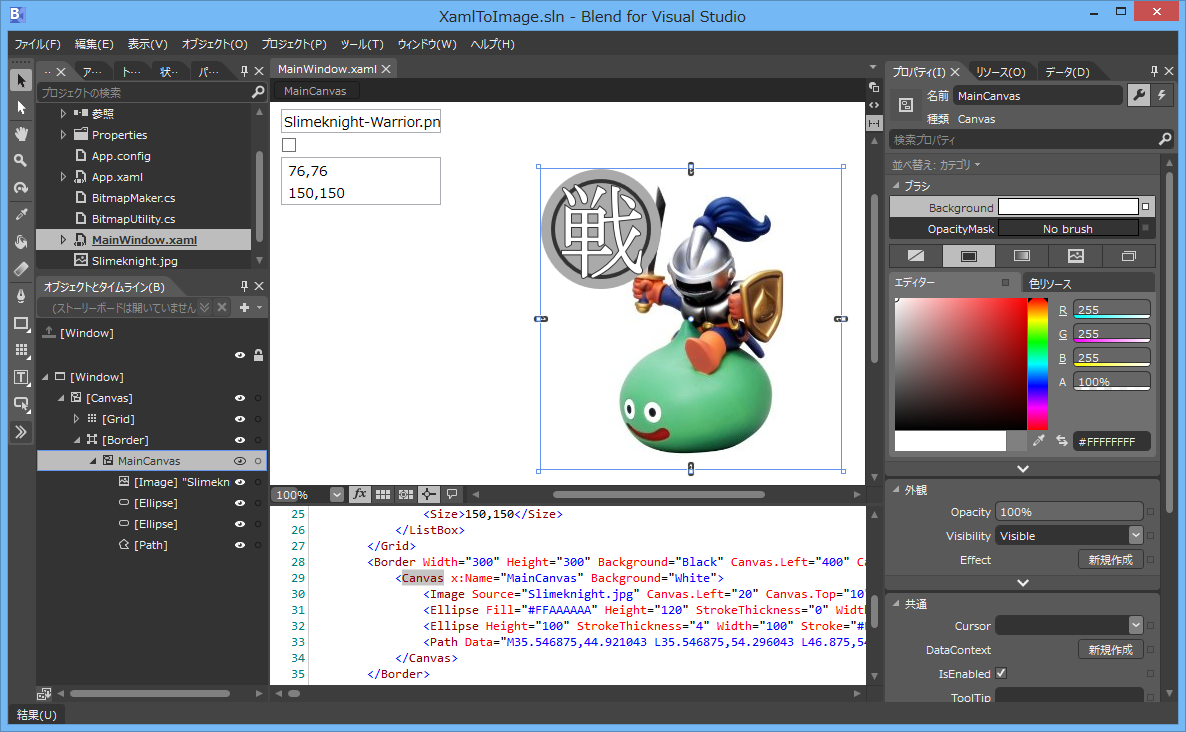
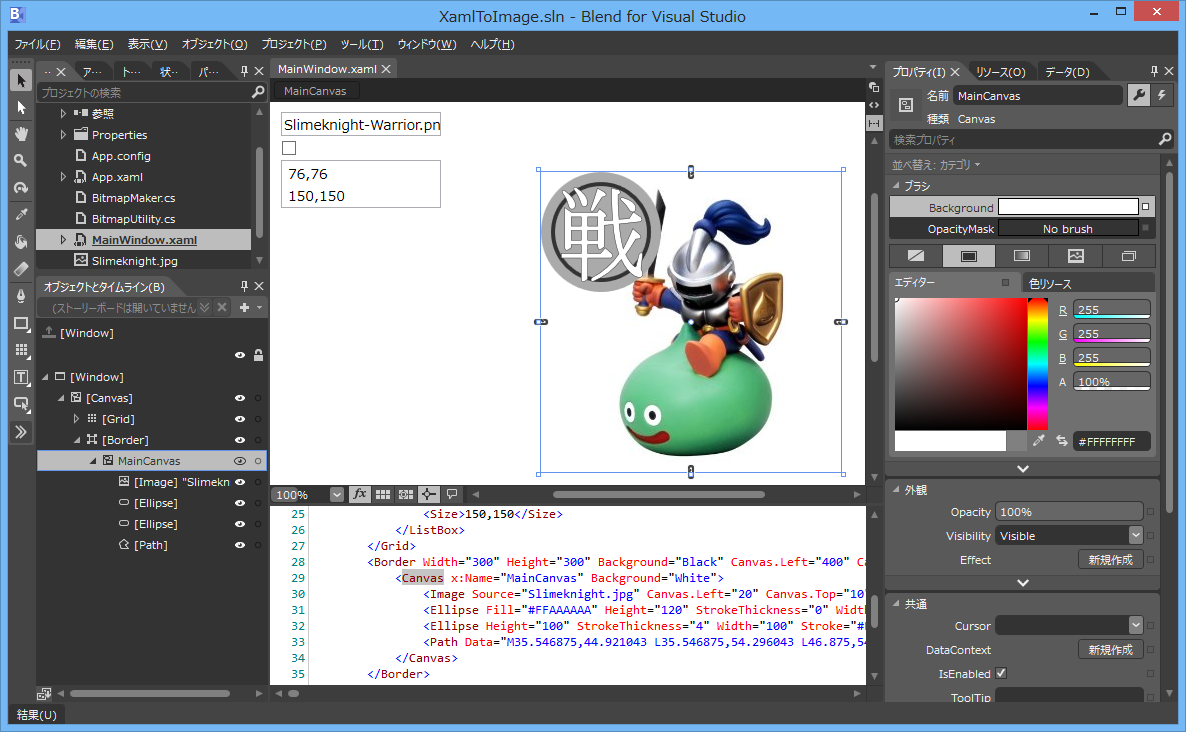
Set stroke thickness of text path to 0.5.

diff --git a/Images/Slimeknight-Warrior/MainWindow.xaml b/Images/Slimeknight-Warrior/MainWindow.xaml
@@ -30,7 +30,7 @@
 				<Image Source="Slimeknight.jpg" Canvas.Left="20" Canvas.Top="10"/>
 				<Ellipse Fill="#FFAAAAAA" Height="120" StrokeThickness="0" Width="120"/>
 				<Ellipse Height="100" StrokeThickness="4" Width="100" Stroke="#FF333333" Canvas.Left="10" Canvas.Top="10"/>
-				<Path Data="M35.546875,44.921043 L35.546875,54.296043 L46.875,54.296043 L46.875,44.921043 z M16.796875,44.921043 L16.796875,54.296043 L28.125,54.296043 L28.125,44.921043 z M35.546875,31.639793 L35.546875,40.624168 L46.875,40.624168 L46.875,31.639793 z M16.796875,31.639793 L16.796875,40.624168 L28.125,40.624168 L28.125,31.639793 z M74.786377,12.889793 C84.824623,15.400375 89.84375,18.785789 89.84375,23.046043 C89.84375,25.650211 88.671875,26.952293 86.328125,26.952293 C84.58252,26.952293 83.241776,26.17308 82.305908,24.614647 C79.994705,21.013573 77.022293,18.045235 73.388672,15.709618 C72.119141,13.829735 72.585037,12.889793 74.786377,12.889793 z M6.8878174,6.0920038 C7.3659258,5.7471542 8.3170567,5.8707504 9.7412109,6.4627919 C17.569986,11.589745 21.484375,16.075829 21.484375,19.921043 C21.484375,22.785629 20.052082,24.217918 17.1875,24.217918 C15.576172,24.217918 14.294434,22.789696 13.342285,19.93325 C12.33317,16.140938 10.176595,12.340477 6.8725586,8.5318823 C6.4046221,7.250145 6.4097085,6.4368515 6.8878174,6.0920038 z M62.536621,3.9054184 L70.837402,5.5411601 C73.352051,7.8035355 73.026527,9.2907562 69.86084,10.002831 C69.632973,15.300682 70.011391,23.294258 70.996094,33.983543 L82.440186,33.269432 L87.115479,26.952293 L95.703125,31.865623 C97.526031,33.896061 97.347,35.379215 95.166016,36.315086 L71.09375,38.56118 C72.119141,47.93618 73.675537,55.915512 75.762939,62.499168 C79.46167,56.61945 83.085121,50.109032 86.633301,42.967918 L93.707275,48.247459 C97.381592,51.4986 96.166992,53.124168 90.063477,53.124168 C86.112465,58.804508 82.263184,63.825668 78.515625,68.187645 C82.019043,74.242332 85.581459,78.234032 89.202881,80.162743 C89.6464,80.105774 89.996338,79.894188 90.252686,79.527977 L93.756104,67.839745 C95.688881,65.841858 96.98893,65.89679 97.65625,68.004539 L96.057129,79.979637 C95.560707,81.778137 95.916748,83.259262 97.125244,84.422997 C98.520912,86.766747 98.038734,88.69342 95.678711,90.203026 C93.501785,90.483788 91.117348,90.064682 88.525391,88.945702 C82.316078,85.434143 77.335609,80.134262 73.583984,73.046043 C65.055336,82.587875 54.404701,89.619125 41.63208,94.139793 C38.877357,94.139793 38.301594,93.026917 39.904785,90.80117 C53.080238,84.856346 63.346352,77.110985 70.703125,67.565086 C67.06543,58.658024 64.880371,49.156883 64.147949,39.061668 L54.296875,39.769676 L54.296875,60.680321 C49.348957,64.236633 46.875,64.191879 46.875,60.546043 L46.875,58.592918 L35.546875,58.592918 L35.546875,67.186668 L49.780273,67.186668 L55.328369,61.717918 L62.524414,67.040184 C64.331055,69.058411 64.129639,70.539536 61.920166,71.483543 L35.546875,71.483543 L35.546875,91.930321 C30.598957,95.486633 28.124998,95.441879 28.125,91.796043 L28.125,71.483543 L5.46875,71.483543 L5.46875,67.186668 L28.125,67.186668 L28.125,58.592918 L16.796875,58.592918 L16.796875,61.461571 C11.848958,65.017883 9.375,64.973129 9.375,61.327293 L9.375,22.655418 L17.242432,27.342918 L46.160889,27.342918 L48.919678,23.827293 L55.419922,28.307274 C57.275391,30.496407 56.901039,31.928696 54.296875,32.604149 L54.296875,35.155418 L63.671875,34.856346 C62.630203,22.087791 62.251785,11.770821 62.536621,3.9054184 z M46.533203,3.9054184 L54.150391,7.5675273 C57.893875,10.082176 57.112625,11.707748 51.806641,12.444237 L41.851807,25.847557 C39.471436,26.844467 38.419594,26.240219 38.696289,24.034813 C41.296387,17.809227 43.908691,11.099434 46.533203,3.9054184 z M22.387695,3.1913071 C30.900063,8.1351547 35.15625,12.800278 35.15625,17.186668 C35.15625,20.311668 33.984375,21.874168 31.640625,21.874168 C29.740396,21.874168 28.446451,20.669746 27.758789,18.260887 C25.773111,13.052559 23.27067,8.9387894 20.251465,5.919579 C18.99007,3.535141 19.702148,2.6257172 22.387695,3.1913071 z" Fill="White" Height="95" Canvas.Left="20" Stretch="Fill" Canvas.Top="15" Width="82" Stroke="#FF333333"/>
+				<Path Data="M35.546875,44.921043 L35.546875,54.296043 L46.875,54.296043 L46.875,44.921043 z M16.796875,44.921043 L16.796875,54.296043 L28.125,54.296043 L28.125,44.921043 z M35.546875,31.639793 L35.546875,40.624168 L46.875,40.624168 L46.875,31.639793 z M16.796875,31.639793 L16.796875,40.624168 L28.125,40.624168 L28.125,31.639793 z M74.786377,12.889793 C84.824623,15.400375 89.84375,18.785789 89.84375,23.046043 C89.84375,25.650211 88.671875,26.952293 86.328125,26.952293 C84.58252,26.952293 83.241776,26.17308 82.305908,24.614647 C79.994705,21.013573 77.022293,18.045235 73.388672,15.709618 C72.119141,13.829735 72.585037,12.889793 74.786377,12.889793 z M6.8878174,6.0920038 C7.3659258,5.7471542 8.3170567,5.8707504 9.7412109,6.4627919 C17.569986,11.589745 21.484375,16.075829 21.484375,19.921043 C21.484375,22.785629 20.052082,24.217918 17.1875,24.217918 C15.576172,24.217918 14.294434,22.789696 13.342285,19.93325 C12.33317,16.140938 10.176595,12.340477 6.8725586,8.5318823 C6.4046221,7.250145 6.4097085,6.4368515 6.8878174,6.0920038 z M62.536621,3.9054184 L70.837402,5.5411601 C73.352051,7.8035355 73.026527,9.2907562 69.86084,10.002831 C69.632973,15.300682 70.011391,23.294258 70.996094,33.983543 L82.440186,33.269432 L87.115479,26.952293 L95.703125,31.865623 C97.526031,33.896061 97.347,35.379215 95.166016,36.315086 L71.09375,38.56118 C72.119141,47.93618 73.675537,55.915512 75.762939,62.499168 C79.46167,56.61945 83.085121,50.109032 86.633301,42.967918 L93.707275,48.247459 C97.381592,51.4986 96.166992,53.124168 90.063477,53.124168 C86.112465,58.804508 82.263184,63.825668 78.515625,68.187645 C82.019043,74.242332 85.581459,78.234032 89.202881,80.162743 C89.6464,80.105774 89.996338,79.894188 90.252686,79.527977 L93.756104,67.839745 C95.688881,65.841858 96.98893,65.89679 97.65625,68.004539 L96.057129,79.979637 C95.560707,81.778137 95.916748,83.259262 97.125244,84.422997 C98.520912,86.766747 98.038734,88.69342 95.678711,90.203026 C93.501785,90.483788 91.117348,90.064682 88.525391,88.945702 C82.316078,85.434143 77.335609,80.134262 73.583984,73.046043 C65.055336,82.587875 54.404701,89.619125 41.63208,94.139793 C38.877357,94.139793 38.301594,93.026917 39.904785,90.80117 C53.080238,84.856346 63.346352,77.110985 70.703125,67.565086 C67.06543,58.658024 64.880371,49.156883 64.147949,39.061668 L54.296875,39.769676 L54.296875,60.680321 C49.348957,64.236633 46.875,64.191879 46.875,60.546043 L46.875,58.592918 L35.546875,58.592918 L35.546875,67.186668 L49.780273,67.186668 L55.328369,61.717918 L62.524414,67.040184 C64.331055,69.058411 64.129639,70.539536 61.920166,71.483543 L35.546875,71.483543 L35.546875,91.930321 C30.598957,95.486633 28.124998,95.441879 28.125,91.796043 L28.125,71.483543 L5.46875,71.483543 L5.46875,67.186668 L28.125,67.186668 L28.125,58.592918 L16.796875,58.592918 L16.796875,61.461571 C11.848958,65.017883 9.375,64.973129 9.375,61.327293 L9.375,22.655418 L17.242432,27.342918 L46.160889,27.342918 L48.919678,23.827293 L55.419922,28.307274 C57.275391,30.496407 56.901039,31.928696 54.296875,32.604149 L54.296875,35.155418 L63.671875,34.856346 C62.630203,22.087791 62.251785,11.770821 62.536621,3.9054184 z M46.533203,3.9054184 L54.150391,7.5675273 C57.893875,10.082176 57.112625,11.707748 51.806641,12.444237 L41.851807,25.847557 C39.471436,26.844467 38.419594,26.240219 38.696289,24.034813 C41.296387,17.809227 43.908691,11.099434 46.533203,3.9054184 z M22.387695,3.1913071 C30.900063,8.1351547 35.15625,12.800278 35.15625,17.186668 C35.15625,20.311668 33.984375,21.874168 31.640625,21.874168 C29.740396,21.874168 28.446451,20.669746 27.758789,18.260887 C25.773111,13.052559 23.27067,8.9387894 20.251465,5.919579 C18.99007,3.535141 19.702148,2.6257172 22.387695,3.1913071 z" Fill="White" Height="95" Canvas.Left="20" Stretch="Fill" Canvas.Top="15" Width="82" Stroke="#FF333333" StrokeThickness="0.5"/>
 			</Canvas>
 		</Border>
 	</Canvas>
